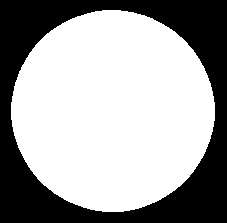
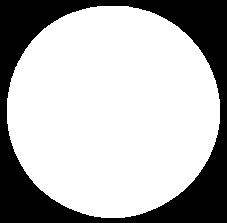
Quase funciona com moedas reais

Changed region(s): [[0.0308, 0.0269, 0.9868, 0.9955]]

diff --git a/Morfologia/geraElementoMoeda.py b/Morfologia/geraElementoMoeda.py
@@ -5,83 +5,54 @@ import sys
 import morfo as mo
 import matplotlib.pyplot as plt
 
-def borderLim(img):
-    def borderize(img, a, b, out):
-        if(out[a, b] == 0):
-            return
-        pilha.append((a,b))
-        while(pilha != []):
-            (y,x) = pilha.pop()
-            out[y,x] = 0
-            if(y-1 >= 0):
-                if((img[y-1,x] >= img[y,x] -1 and img[y-1,x] <= img[y,x] +1) and out[y-1, x] != 0):
-                    pilha.append((y-1,x))
-            if(y+1 < img.shape[0]):
-                if((img[y+1,x] >= img[y,x] -1 and img[y+1,x] <= img[y,x] +1) and out[y+1, x] != 0):
-                    pilha.append((y+1,x))
-            if(x-1 >= 0):
-                if((img[y,x-1] >= img[y,x] -1 and img[y,x-1] <= img[y,x] +1) and out[y, x-1] != 0):
-                    pilha.append((y,x-1))
-            if(x+1 < img.shape[1]):
-                if((img[y,x+1] >= img[y,x] -1 and img[y,x+1] <= img[y,x] +1) and out[y, x+1] != 0):
-                    pilha.append((y,x+1))
+def geraElemento(img, limite):
 
-    out = np.ones(img.shape, np.uint8)
-    pilha = []
-    borderize(img, 0, 0, out)
-    print("oi")
-    borderize(img, 0, img.shape[1]-1, out)
-    print("oi")
-    borderize(img, img.shape[1]-1, 0, out)
-    print("oi")
-    borderize(img, img.shape[1]-1, img.shape[1]-1, out)
-
-    return out
-
-
-
-def geraElemento(img, dilat, limite):
-
-    # plt.hist(img.ravel(),256,[0,256]); plt.show()
+    plt.hist(img.ravel(),256,[0,256]); plt.show()
 
     temp = np.copy(img)
 
-    temp = borderLim(temp)
 
-    cv2.imshow("oi", temp)
-    cv2.waitKey()
-    cv2.destroyAllWindows()
+    # cv2.imshow("oi", temp)
+    # cv2.waitKey()
+    # cv2.destroyAllWindows()
 
-    # x_min = 0
-    # x_max = 0
-    # y_max = 0
-    # y_min = 0
+    x_min = 0
+    x_max = 0
+    y_max = 0
+    y_min = 0
 
-    # for x in range(img.shape[1]):
-    #     for y in range(img.shape[0]):
-    #         if(img[y,x] < limite):
-    #             temp[y,x] = 255
-    #             if(x < x_min):
-    #                 x_min = x
-    #             if(x > x_max):
-    #                 x_max = x
-    #             if(y < y_min):
-    #                 y_min = y
-    #             if(y > y_max):
-    #                 y_max = y
-    #         else:
-    #             temp[y,x] = 0
-    # out = mo.erode(temp, dilat)
+    for x in range(img.shape[1]):
+        for y in range(img.shape[0]):
+            if(img[y,x] < limite):
+                temp[y,x] = 255
+                if(x < x_min):
+                    x_min = x
+                if(x > x_max):
+                    x_max = x
+                if(y < y_min):
+                    y_min = y
+                if(y > y_max):
+                    y_max = y
+            else:
+                temp[y,x] = 0
+    elem = cv2.getStructuringElement(cv2.MORPH_ELLIPSE, (20,20))
+    elem2 = cv2.getStructuringElement(cv2.MORPH_ELLIPSE, (50,50))
+
+    temp = cv2.dilate(temp, elem, iterations=1)
+    temp = cv2.erode(temp, elem, iterations=1)
+    temp = cv2.dilate(temp, elem, iterations=1)
+    out = cv2.erode(temp, elem, iterations=1)
+    out = cv2.erode(out, elem2, iterations = 1)
     # out = temp
-    
+    #
     # y_par = False
     # x_par = False
     # if(out.shape[0] % 2 == 0):
     #     y_par = True
     # if(out.shape[1] % 2 == 0):
     #     x_par = True
-
-
+    #
+    #
     # if(y_par and x_par):
     #     new_out = np.zeros((out.shape[0]+1, out.shape[1]+1), np.uint8)
     # elif(y_par):
@@ -90,14 +61,14 @@ def geraElemento(img, dilat, limite):
     #     new_out = np.zeros((out.shape[0], out.shape[1]+1), np.uint8)
     # else:
     #     new_out = np.zeros((out.shape[0], out.shape[1]), np.uint8)
-
-
+    #
+    #
     # new_out[0:out.shape[0], 0:out.shape[1]] = out
-
+    #
     # cv2.imshow("oi", out)
     # cv2.waitKey()
     # cv2.destroyAllWindows()
-
+    #
     # out = np.copy(temp[y_min:y_max, x_min:x_max])
     # out = np.where(out < limite, 0, 255)
     # return new_out
@@ -110,7 +81,6 @@ if __name__ == "__main__":
     #argv[3] = threshold para limiarização
     argv = sys.argv
     img = cv2.imread(argv[1], 0)
-    dilatador = cv2.imread(argv[2], 0)
     name_ext = argv[1].split('.')
-    elem = geraElemento(img, dilatador, int(argv[3]))
+    elem = geraElemento(img, int(argv[2]))
     cv2.imwrite(name_ext[0] + "_elem." + name_ext[1], elem)

diff --git a/Morfologia/contaMoedas.py b/Morfologia/contaMoedas.py
@@ -5,6 +5,7 @@ import cv2
 import sys
 import morfo as mo
 import segmenta as seg
+import matplotlib.pyplot as plt
 
 def thresholding(img, limite):
     out = np.zeros(img.shape, np.uint8)
@@ -12,58 +13,70 @@ def thresholding(img, limite):
         for y in range(img.shape[0]):
             if(img[y,x] < limite):
                 out[y,x] = 255
+
+    elem = cv2.getStructuringElement(cv2.MORPH_ELLIPSE, (50,50))
+
+    out = cv2.dilate(out, elem, iterations=1)
+    out = cv2.erode(out, elem, iterations=1)
+    out = cv2.dilate(out, elem, iterations=1)
+    out = cv2.erode(out, elem, iterations=1)
+
     return out
 
 def conta(img, limite, verbose=False):
-	elem_1r = cv2.imread("Imagens/moeda_1r_elem.jpg", 0)
-	elem_50 = cv2.imread("Imagens/moeda_50_elem.jpg", 0)
-	elem_25 = cv2.imread("Imagens/moeda_25_elem.jpg", 0)
-	elem_10 = cv2.imread("Imagens/moeda_10_elem.jpg", 0)
-	elem_5 = cv2.imread("Imagens/moeda_5_elem.jpg", 0)
+    elem_1r = cv2.imread("Imagens_reais/moeda_1r_elem.jpg", 0)
+    elem_50 = cv2.imread("Imagens_reais/moeda_50_elem.jpg", 0)
+    elem_25 = cv2.imread("Imagens_reais/moeda_25_elem.jpg", 0)
+    elem_10 = cv2.imread("Imagens_reais/moeda_10_elem.jpg", 0)
+    elem_5 = cv2.imread("Imagens_reais/moeda_5_elem.jpg", 0)
+    plt.hist(img.ravel(),256,[0,256]); plt.show()
 
-	img_lim = thresholding(img, limite)
-	if(verbose):
-		cv2.imshow("Imagem limiarizada", img_lim)
-		cv2.waitKey()
-		cv2.destroyAllWindows()
+    img_lim = thresholding(img, limite)
+
+    if(verbose):
+        sized = cv2.resize(img_lim, (960, 540))
+        cv2.imshow("Imagem limiarizada", sized)
+        cv2.waitKey()
+        cv2.destroyAllWindows()
 
 
-	temp = cv2.erode(img_lim, elem_25, iterations=1)
-	num_1r = seg.segmenta(temp)
-	temp = cv2.dilate(temp, elem_25, iterations=1)
-	print num_1r
-	if(verbose):
-		cv2.imshow("Moedas 1r", temp)
-		cv2.waitKey()
-		cv2.destroyAllWindows()
-
-	temp = cv2.erode(img_lim, elem_50, iterations=1)
-	num_25 = seg.segmenta(temp) - num_1r
-	temp = cv2.dilate(temp, elem_50, iterations=1)
-	print num_25
-	if(verbose):
-		cv2.imshow("Moedas 1r e 25", temp)
-		cv2.waitKey()
-		cv2.destroyAllWindows()
-
-	temp = cv2.erode(img_lim, elem_5, iterations=1)
-	num_50 = seg.segmenta(temp) - (num_1r+num_25)
-	temp = cv2.dilate(temp, elem_5, iterations=1)
-	print num_50
-
-	if(verbose):
-		cv2.imshow("Moedas 1r, 25 e 50", temp)
-		cv2.waitKey()
-		cv2.destroyAllWindows()
-
-	temp = cv2.erode(img_lim, elem_10, iterations=1)
-	num_5 = seg.segmenta(temp) - (num_1r + num_25 + num_50)
-	temp = cv2.dilate(temp, elem_10, iterations=1)
-	print num_5
-	if(verbose):
-		cv2.imshow("Moedas 1r, 25, 50 e 5", temp)
-		cv2.waitKey()
-		cv2.destroyAllWindows()
+    temp = cv2.erode(img_lim, elem_5, iterations=1)
+    num_1r = seg.segmenta(temp)
+    temp = cv2.dilate(temp, elem_5, iterations=1)
+    print num_1r
+    if(verbose):
+        sized = cv2.resize(temp, (960, 540))
+        cv2.imshow("Moedas 1r", sized)
+        cv2.waitKey()
+        cv2.destroyAllWindows()
+    #
+    #     temp = cv2.erode(img_lim, elem_50, iterations=1)
+    #     num_25 = seg.segmenta(temp) - num_1r
+    #     temp = cv2.dilate(temp, elem_50, iterations=1)
+    #     print num_25
+    #     if(verbose):
+    #         cv2.imshow("Moedas 1r e 25", temp)
+    #         cv2.waitKey()
+    #         cv2.destroyAllWindows()
+    #
+    #         temp = cv2.erode(img_lim, elem_5, iterations=1)
+    #         num_50 = seg.segmenta(temp) - (num_1r+num_25)
+    #         temp = cv2.dilate(temp, elem_5, iterations=1)
+    #         print num_50
+    #
+    #         if(verbose):
+    #             cv2.imshow("Moedas 1r, 25 e 50", temp)
+    #             cv2.waitKey()
+    #             cv2.destroyAllWindows()
+	# temp = cv2.erode(img_lim, elem_10, iterations=1)
+	# num_5 = seg.segmenta(temp) - (num_1r + num_25 + num_50)
+	# temp = cv2.dilate(temp, elem_10, iterations=1)
+	# print num_5
+    # if(verbose):
+    #     sized = cv2.resize(temp, (960, 540))
+    # 	cv2.imshow("Moedas 1r, 25, 50 e 5", sized)
+    # 	cv2.waitKey()
+    # 	cv2.destroyAllWindows()
 
 	num_10 = seg.segmenta(img_lim) - (num_1r + num_25 + num_50 + num_5)
 	print num_10
